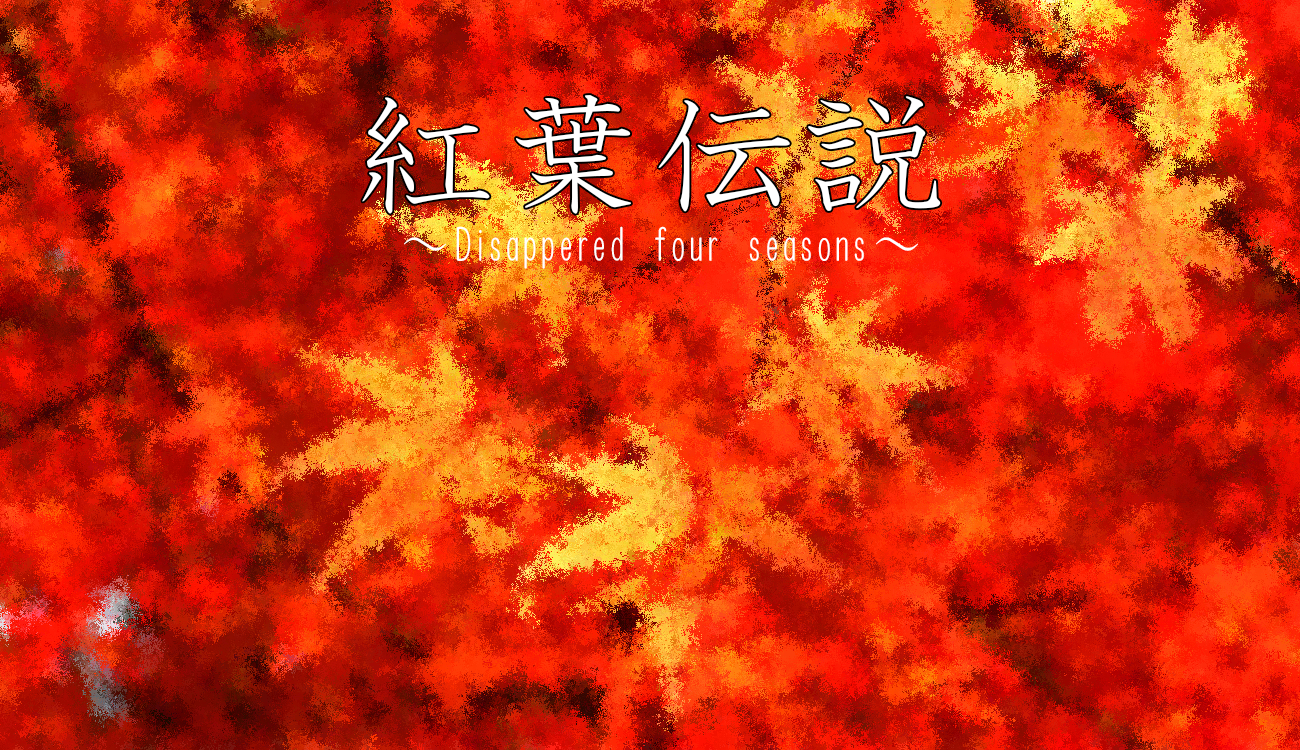
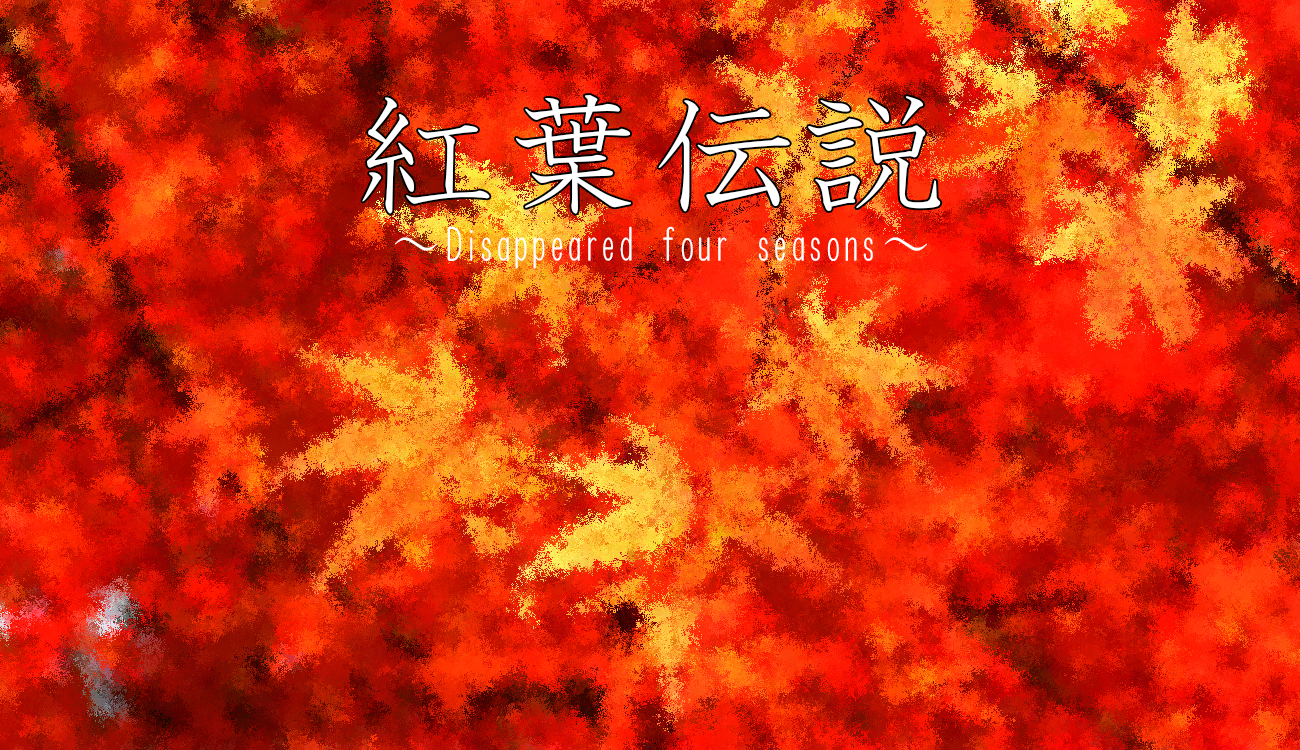
・タイトルの誤字修正 ・ボスのエフェクトバグ修正 ・弾と撃破エフェクトの差がわかりづらいので弾を回転させた

Changed region(s): [[0.3077, 0.3067, 0.7077, 0.368]]

diff --git a/Solo_Project/Assets/Script/Aurora.cs b/Solo_Project/Assets/Script/Aurora.cs
@@ -18,7 +18,7 @@ public class Aurora : MonoBehaviour {
         {
             BreakCount++;
         }
-        if(!particle.isPlaying && BreakCount >= 80)
+        if(BreakCount >= 80)
         {
             Destroy(this.gameObject);
             GameObject.FindGameObjectWithTag("Player").GetComponent<PlayerMove>().SightOff();
@@ -40,7 +40,7 @@ public class Aurora : MonoBehaviour {
             particle.startLifetime = 1.0f;
             particle.startSpeed = 10.0f;
             particle.emission.SetBursts(burst);
-            particle.Play();
+            particle.Emit(300);
             BreakFlag = true;
         }
 

diff --git a/Solo_Project/Assets/Script/EnemyGanerator.cs b/Solo_Project/Assets/Script/EnemyGanerator.cs
@@ -66,7 +66,7 @@ public class EnemyGanerator : MonoBehaviour {
 	void Update () {
         for (int n = 0; n < ENEMY.Length; n++)
         {
-            if(ENEMY[n] != null && Player.position.z >= ENEMY[n].transform.position.z + 10.0f)
+            if(ENEMY[n] != null && Player.position.z >= ENEMY[n].transform.position.z + 5.0f)
             {
                 Destroy(ENEMY[n].gameObject);
                 GameObject.FindGameObjectWithTag("Player").GetComponent<PlayerMove>().SightOff();

diff --git a/Solo_Project/Assets/Script/Scene_Manager.cs b/Solo_Project/Assets/Script/Scene_Manager.cs
@@ -33,8 +33,8 @@ public class Scene_Manager : MonoBehaviour {
                 
                 if (scene.name == "title")
                 {
-                   // timer.ResetTimer();
-                   // timer.StartTimer();
+                    // timer.ResetTimer();
+                    // timer.StartTimer();
                     SceneManager.LoadScene("Stage1");
                 }
                 /* if (scene.name == "Stage1")

diff --git a/Solo_Project/Assets/Script/Production.cs b/Solo_Project/Assets/Script/Production.cs
@@ -18,6 +18,7 @@ public class Production : MonoBehaviour {
         cameratarget = transform.GetComponentInParent<PlayerMove>().transform.position;
         cameratarget.y += 5.0f;
         cameratarget.z -= 3.0f;
+        this.transform.localPosition = CameraPos[0];
         this.transform.LookAt(cameratarget);
 
     }

diff --git a/Solo_Project/Assets/TimerText.cs b/Solo_Project/Assets/TimerText.cs
@@ -20,7 +20,7 @@ public class TimerText : MonoBehaviour {
 
         if (SceneManager.GetActiveScene().name == "Result")
         {
-            transform.localPosition = new Vector3(-265, -31, 0);
+            transform.localPosition = new Vector3(0, -30, 0);
         }
         else
         {

diff --git a/Solo_Project/Assets/Timer.cs b/Solo_Project/Assets/Timer.cs
@@ -44,6 +44,7 @@ public class Timer : MonoBehaviour {
         }
         else
         {
+            GameObject.Find("StageRoad").GetComponent<StageGenerator>().StageReset();
             StartFlag = true;
         }
 

diff --git a/Solo_Project/Assets/Script/StageGenerator.cs b/Solo_Project/Assets/Script/StageGenerator.cs
@@ -77,4 +77,9 @@ public class StageGenerator : MonoBehaviour {
         }
 
     }
+
+    public void StageReset()
+    {
+        StageCount = 0;
+    }
 }
